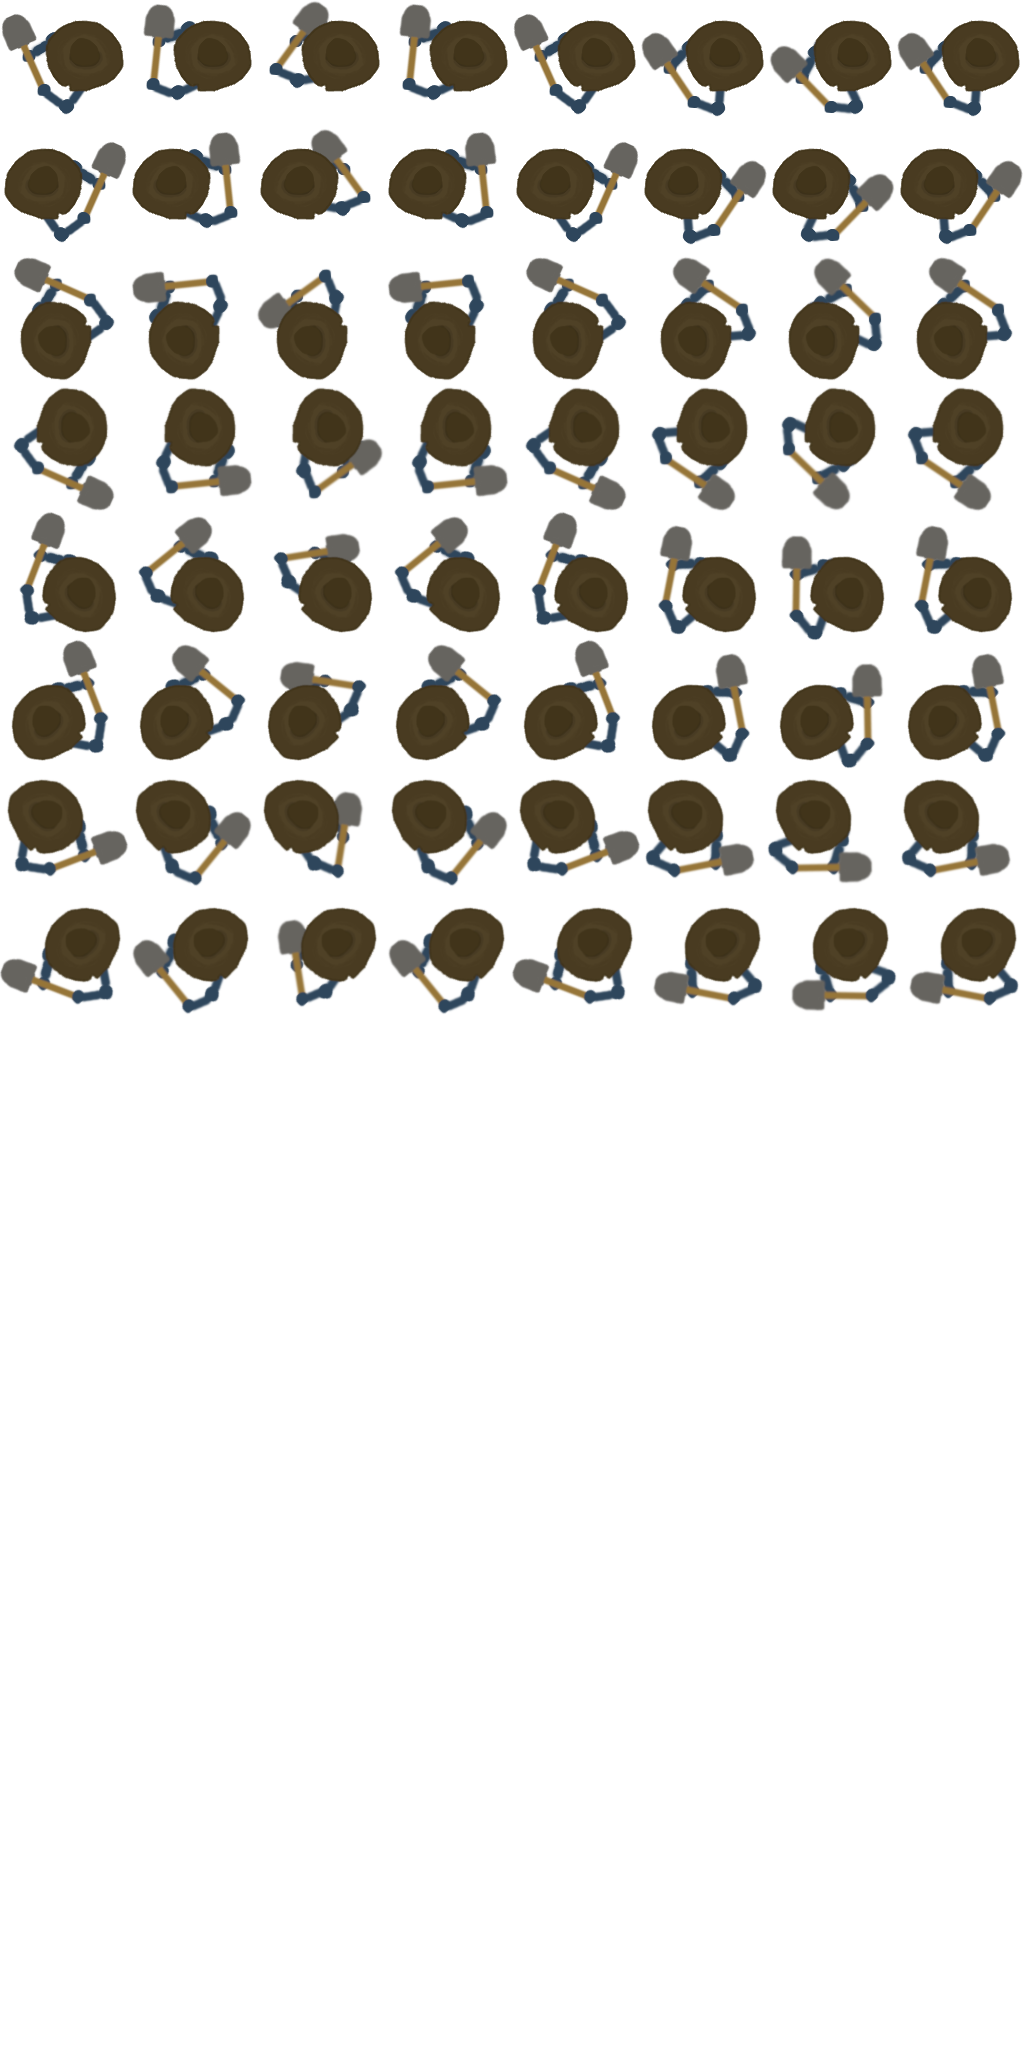
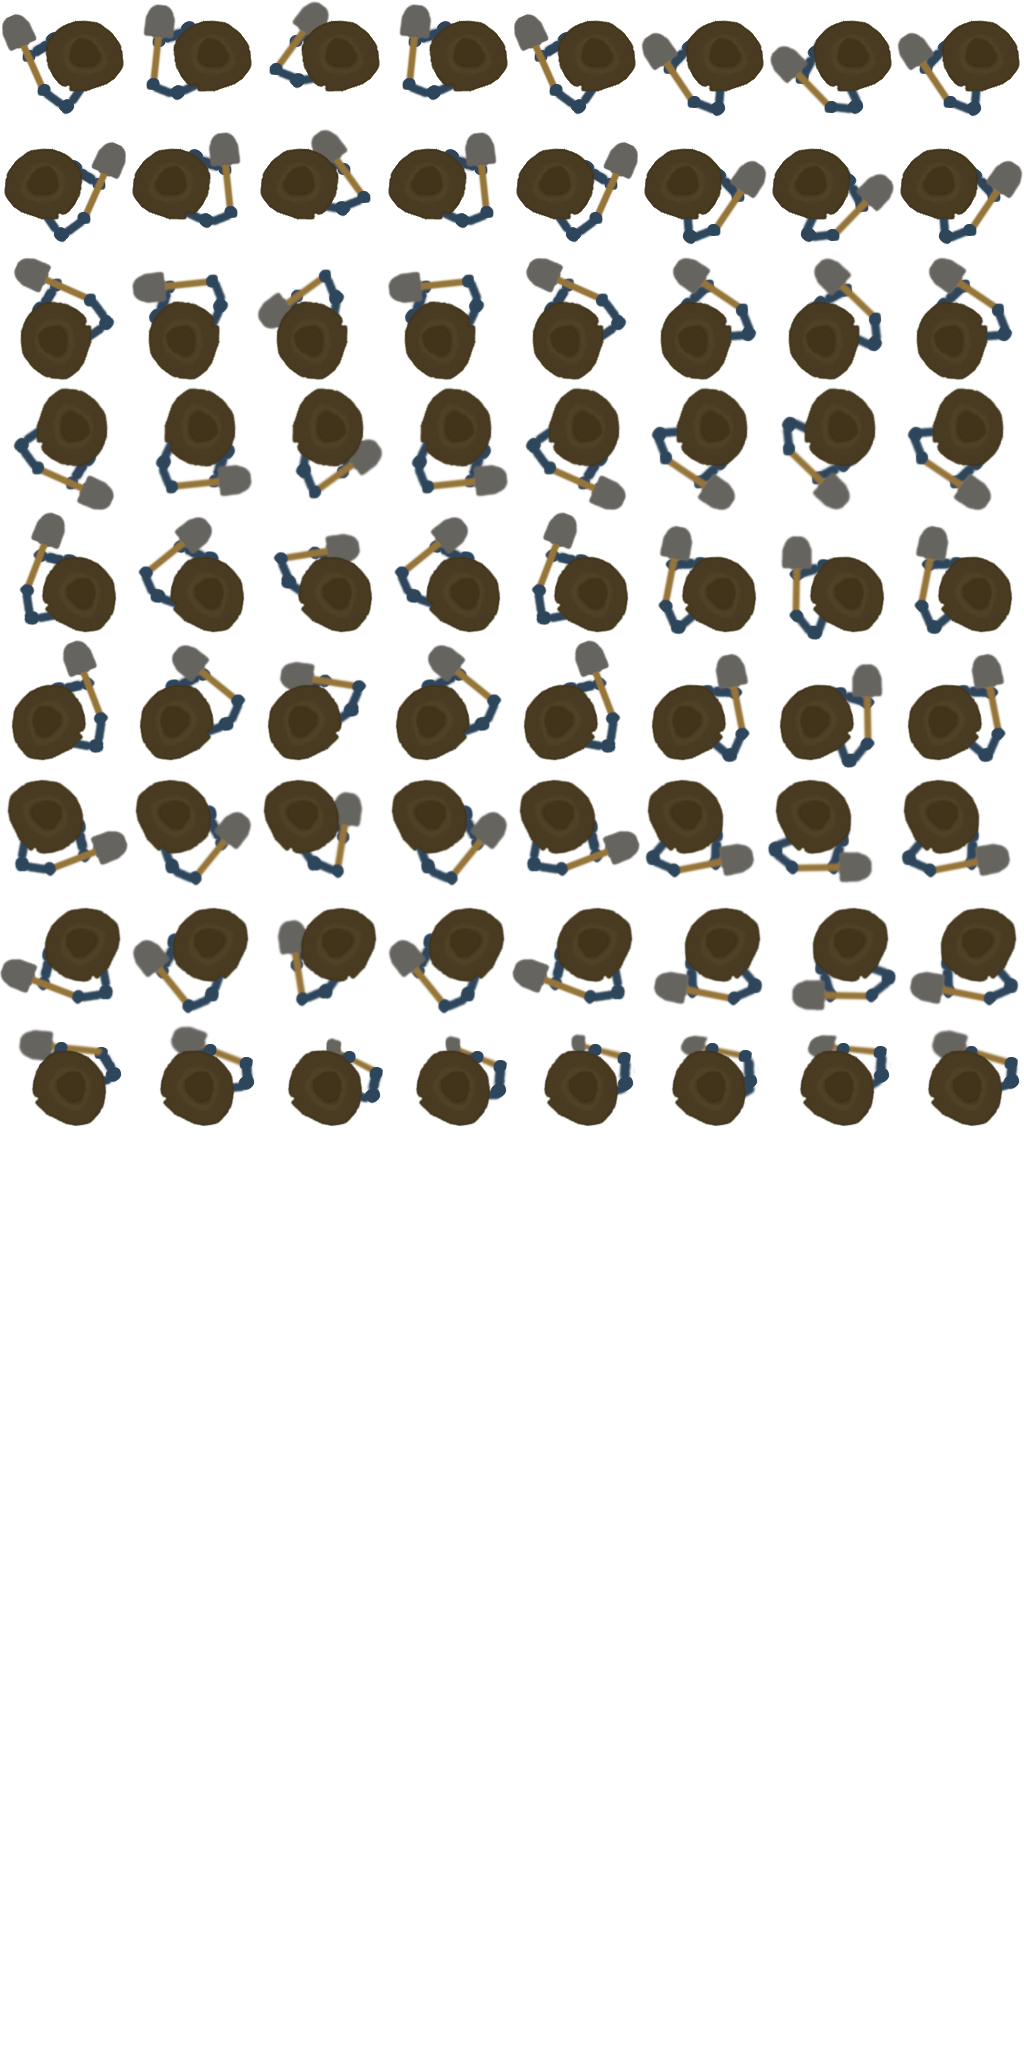
implemented player animation for digging and tweaks to audio triggers

diff --git a/src/main.ts b/src/main.ts
@@ -383,7 +383,6 @@ class PlayGame extends Phaser.Scene
         let playerPositionY: number = this.player.getCenter().y;
         let escapeHatchPositionX: number = this.escapeHatch.getCenter().x;
         let escapeHatchPositionY: number = this.escapeHatch.getCenter().y;
-        this.playerDiggingSound.play();
         if(Math.abs(playerPositionX - escapeHatchPositionX) < this.digRevealRadius
         && Math.abs(playerPositionY - escapeHatchPositionY) < this.digRevealRadius)
         {
@@ -715,6 +714,12 @@ class PlayGame extends Phaser.Scene
             frameRate: 12,
             repeat: -1
         });
+        this.anims.create({
+            key: 'dig',
+            frames: this.anims.generateFrameNumbers('player', {start: 64, end: 71}),
+            frameRate: 12,
+            repeat: 0  
+        });
 
         this.anims.create({
             key: 'enemy-run-left',
@@ -884,9 +889,12 @@ class PlayGame extends Phaser.Scene
                     posScaleY = 0;
                 }
                 
-                velocityX = (posScaleX * this.speed + negScaleX * -this.speed);
-                velocityY = (posScaleY * this.speed + negScaleY * -this.speed);
-                this.player.setVelocity(velocityX, velocityY);
+                if(!this.digging)
+                    {
+                        velocityX = (posScaleX * this.speed + negScaleX * -this.speed);
+                        velocityY = (posScaleY * this.speed + negScaleY * -this.speed);
+                        this.player.setVelocity(velocityX, velocityY);
+                    }
 
                 if(this.player.body.velocity.x !== 0 || this.player.body.velocity.y !== 0)
                     {
@@ -934,35 +942,52 @@ class PlayGame extends Phaser.Scene
                     }
                 else
                 {
-                    this.player.anims.stop();
+                    if(this.digging === true)
+                        {
+                            this.player.anims.play('dig', true);
+                        }
+                        else
+                        {
+                            this.player.anims.stop();
+                        }
                 }
 
                 if(this.digKey?.isDown)
                     {
                         this.player.setVelocity(0,0);
+                        
                         if(!this.physics.overlap(this.digSpots, this.player))
+                        {   
+                            if(this.power > this.powerDrainDigPerTick)
                             {
-                                if(this.power > this.powerDrainDigPerTick)
-                                    if(this.digging === false)
+                                if(!this.playerDiggingSound.isPlaying)
                                     {
-                                        this.digging = true;
+                                        this.playerDiggingSound.play();
                                     }
-                                    else
+                                
+                                if(this.digging === false)
+                                {
+                                    this.digging = true;
+                                }
+                                else
+                                {
+                                    this.power -= this.powerDrainDigPerTick * this.time.timeScale;
+                                    this.digTimer -= this.time.timeScale;
+                                }
+                                if(this.digTimer < 0)
                                     {
-                                        this.power -= this.powerDrainDigPerTick * this.time.timeScale;
-                                        this.digTimer -= this.time.timeScale;
+                                        this.playerDig();
+                                        this.digging = false;
+                                        this.digTimer = this.digDuration;
                                     }
-                                    if(this.digTimer < 0)
-                                        {
-                                            this.playerDig();
-                                            this.digging = false;
-                                            this.digTimer = this.digDuration;
-                                        }
                             }
+                        }
                     }
                 else if(this.digKey?.isUp)
                     {
+                        this.playerDiggingSound.stop();
                         this.digTimer = this.digDuration;
+                        this.digging = false;
                     }
 
                 this.randomSpawnTimer -= this.time.timeScale * 0.5;

diff --git a/src/scripts/enemy-npc.ts b/src/scripts/enemy-npc.ts
@@ -178,6 +178,7 @@ class EnemyNPC extends Phaser.Physics.Arcade.Sprite
 
     pause(): void
     {
+        this.anims.stop();
         this.setVelocity(0.0, 0.0);
     }
 
